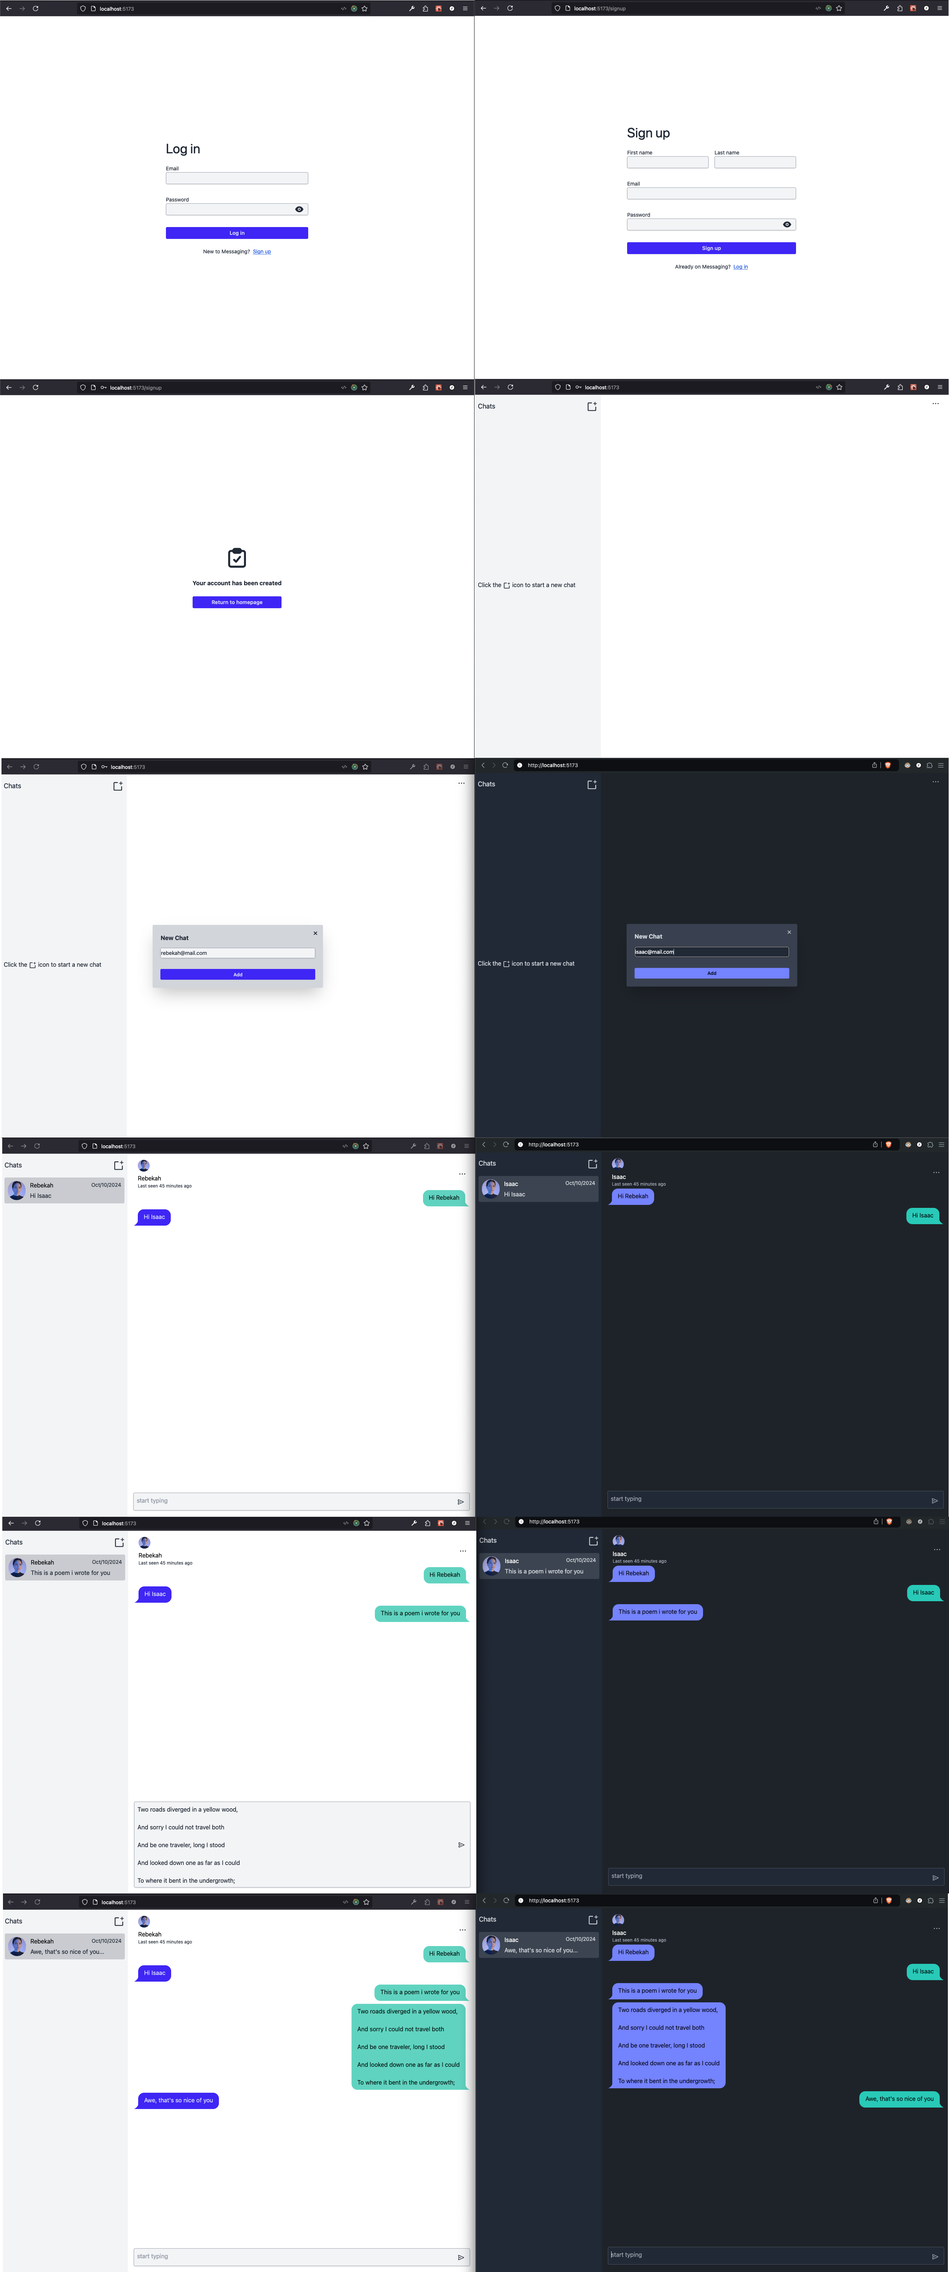
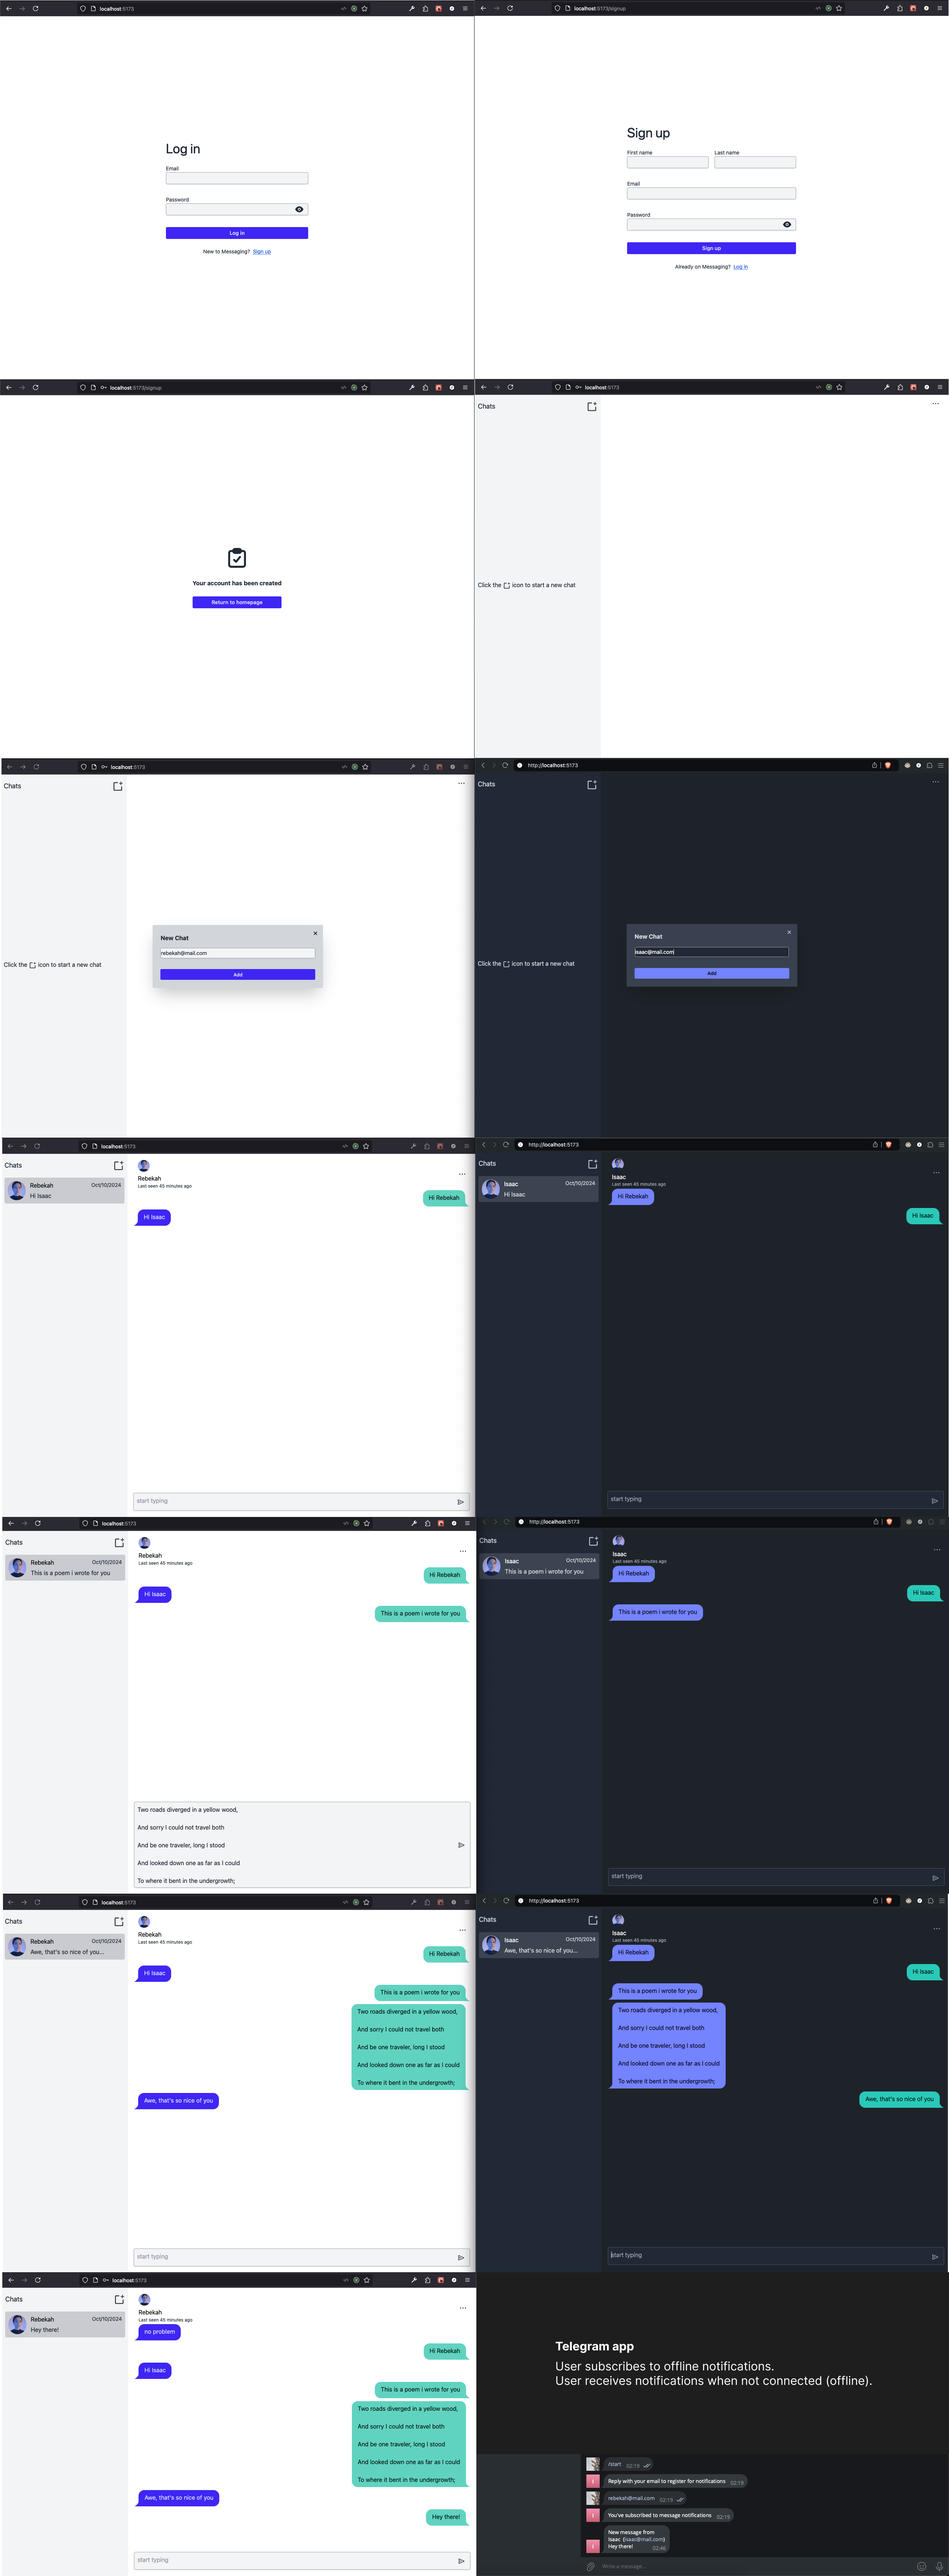
devops: containerize all services for demo

diff --git a/telegram_bot/src/services/notification_service.py b/telegram_bot/src/services/notification_service.py
@@ -2,9 +2,9 @@ import logging
 
 import aiohttp
 
-logger = logging.getLogger(__name__)
+from src.settings import server_settings
 
-API_BASE_URL = 'http://localhost:8000/service/telegram'
+logger = logging.getLogger(__name__)
 
 
 class NotificationService:
@@ -13,7 +13,11 @@ class NotificationService:
         user_data = {'tg_user_id': tg_user_id, 'user_email': user_email}
         try:
             async with aiohttp.ClientSession() as session:
-                async with session.post(API_BASE_URL + '/subscriptions', json=user_data) as res:
+                async with session.post(
+                        f'http://{server_settings.BACKEND_API_HOST}:{server_settings.BACKEND_API_PORT}'
+                        '/service/telegram/subscriptions',
+                        json=user_data
+                ) as res:
                     if res.status == 204:
                         return "You've subscribed to message notifications"
                     else:

diff --git a/telegram_bot/src/settings.py b/telegram_bot/src/settings.py
@@ -12,7 +12,9 @@ class ServerSettings(BaseSettings):
     )
 
     TELEGRAM_BOT_TOKEN: str
-    WEB_APP_PORT: int  # aiohttp port
+    WEB_APP_PORT: int = 8003  # aiohttp port
+    BACKEND_API_HOST: str = 'localhost'  # fastapi host
+    BACKEND_API_PORT: int = 8000  # fastapi port
 
 
 def configure_server_settings():

diff --git a/README.md b/README.md
@@ -3,9 +3,9 @@
 
 ## User stories
 - [x] user wants to authenticate
-- [x] user wants to send and recieve messages
+- [x] user wants to send and receive messages
 - [x] user wants to see the message history
-- [ ] user wants to receive notifications about new messages in telegram if user is offline
+- [x] user wants to receive notifications about new messages in telegram if user is offline
   
 ## Technical stack requirements
 - FastAPI
@@ -21,16 +21,12 @@
 - [x] send messages
 - [x] receive messages
 - [x] view message history
-- [ ] offline notifications
-    - when user connects, his status becomes online
-    - when user disconnects, his status becomes offline
-      - last_active_at timestamp is saved in db
-    - you can query redis for sio to see who is online
-    - chatbot and celery notification queue when offline
-      - add telegram username to user model
+- [x] offline notifications
 - [x] deployment
-  - [x] make app docker image
+  - [x] make backend app docker image and service
   - [x] make nginx reverse-proxy service
+  - [x] make telegram_bot docker image and service
+  - [x] make celery_worker service
 
 ## System design considerations
 - Repository pattern
@@ -38,12 +34,15 @@
 - Service classes handle business logic
 
 ## Start Demo 
-Serves frontend on ***localhost:80***
+For telegram notifications to be working you need to provide your own TELEGRAM_BOT_TOKEN environment variable in `telegram/.env.demo` but you can run demo without it.
+
 ```shell
 git clone https://gitlab.com/telei/instant-messaging.git && \
 cd instant-messaging && \
 make demo.up
 ```
+Serves frontend on ***localhost:80***
+
 
 ## Finish Demo
 ```shell
@@ -61,19 +60,24 @@ make demo.clean
 - python v3.10
 
 ### Create telegram bot token
-Search for BotFather  
+In your telegram app search for `BotFather`  
 /start  
 /newbot
 
-### Create `.env.dev`
-Copy from `.env.dev.example` and paste your bot token
+### Create .env files:
+- `backend/.env.dev` Copy from `backend/.env.dev.example` 
+- `telegram_bot/.env.dev` Copy from `telegram_bot/.env.dev.example` 
 
 ```shell
 cd backend && \
 make docker.up.dev && \
 make jwt.keys && \
 make backend.dev && \
+make celery.start && \
 make backend.test && \
+cd telegram_bot && \
+make bot.test && \
+make bot.start && \
 cd ../frontend && \
 pnpm i && \
 pnpm run dev
@@ -82,6 +86,10 @@ pnpm run dev
 ## Database ERD relationship model
 shows actual ORM relationships only, all columns are not shown  
 ![ERD](backend/migrations/diagrams/ERD_contacts_association_object_step2.jpg)
+
+## Deployment diagram
+![DD](Diagram.svg)
+
 <details>
 <summary>Requirements specification</summary>
 
